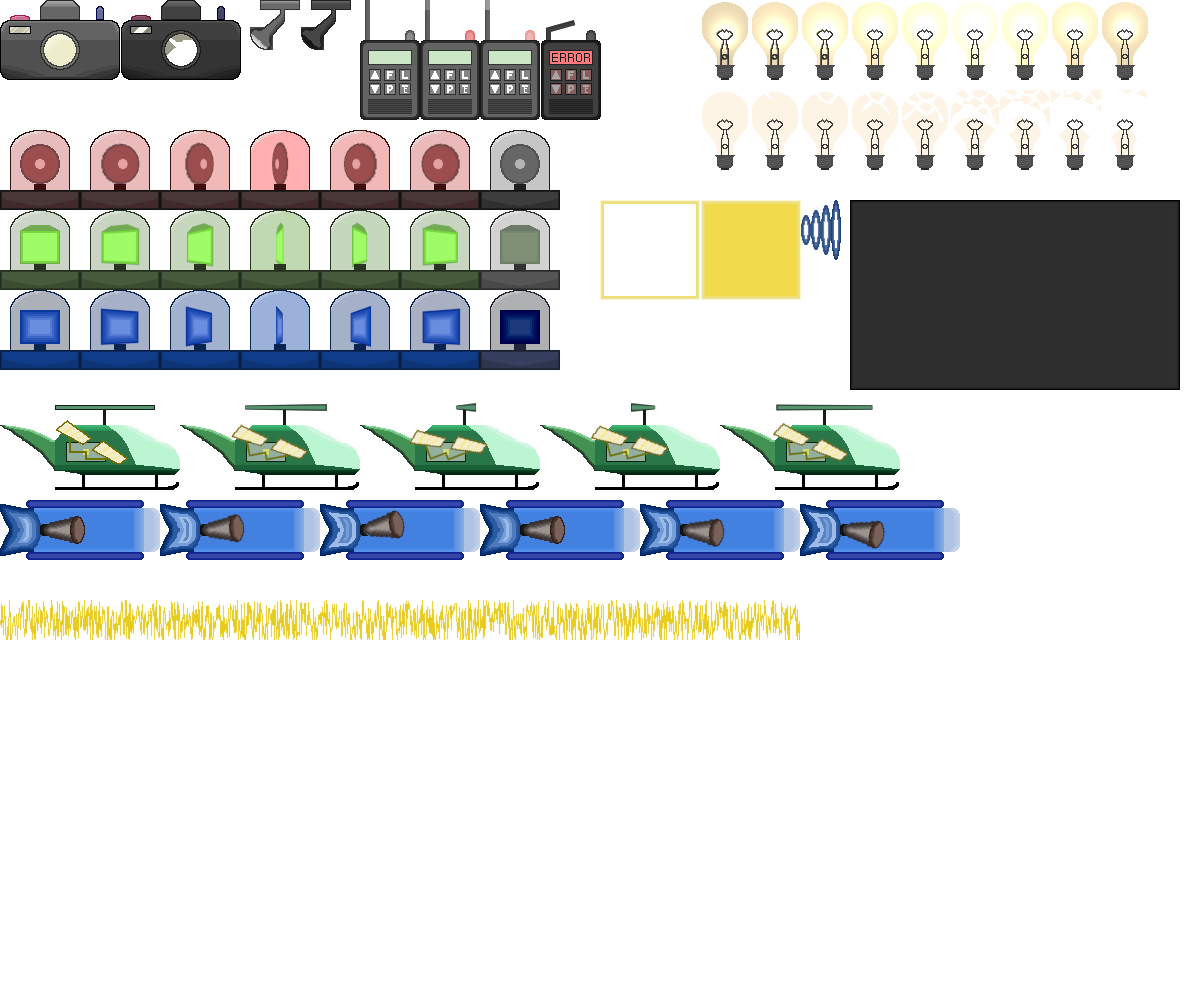
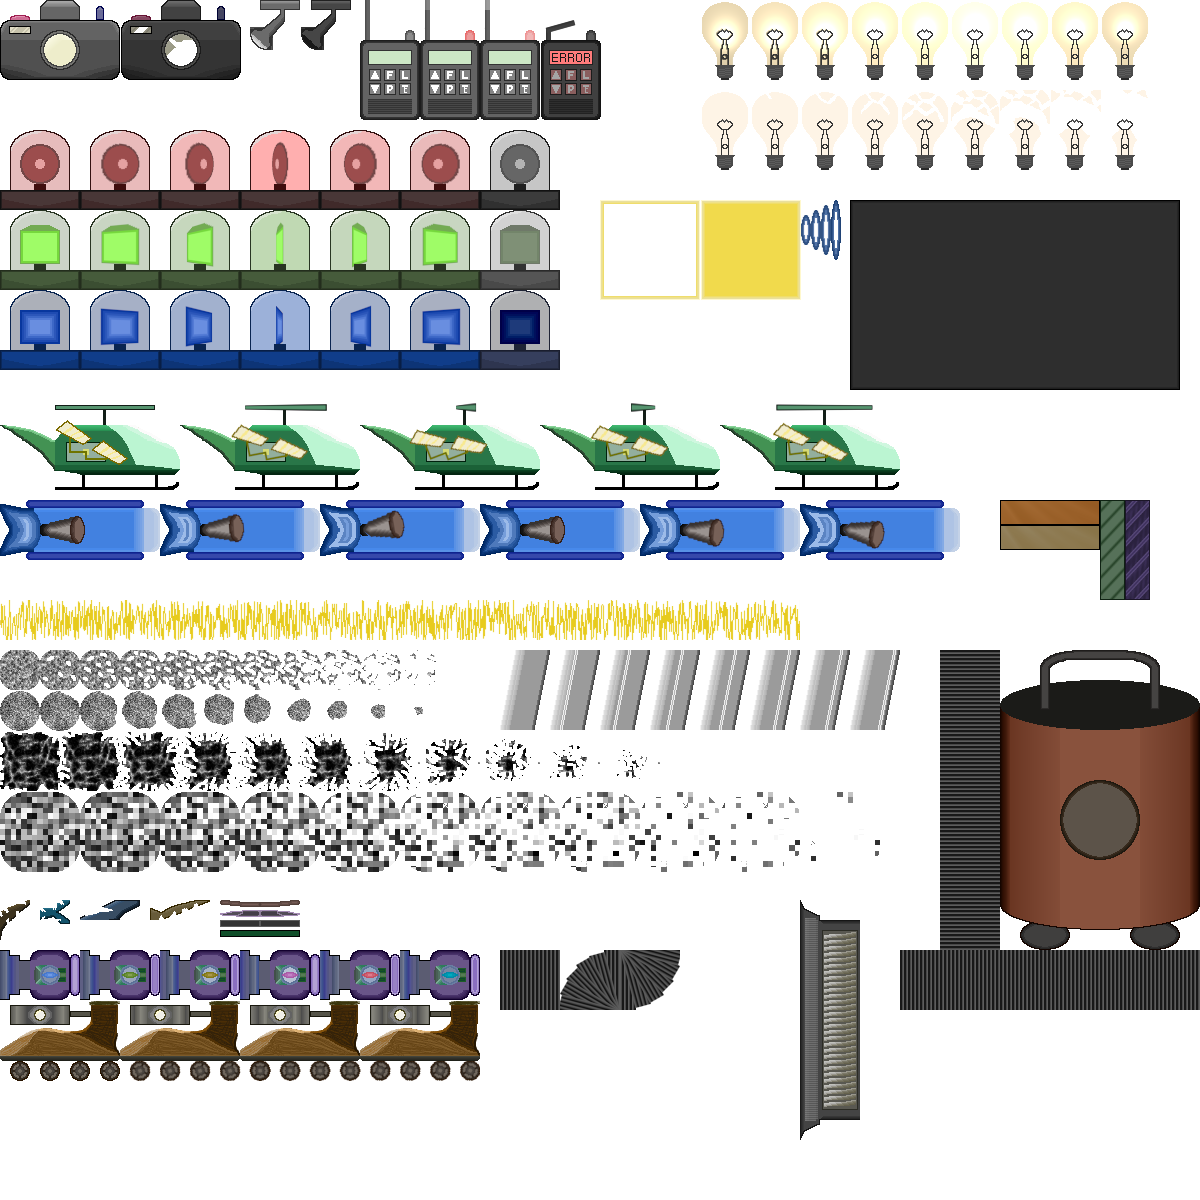
2024/04/16 v0.47.5 - round 3-8 ~ 3-9 image add

diff --git a/js/imageSrc.js b/js/imageSrc.js
@@ -194,6 +194,19 @@ export class imageSrc {
     round3_7_stair: './image/round/round3_7_stair.png',
     round3_7_stairIn: './image/round/round3_7_stairIn.png',
     round3_7_stairOut: './image/round/round3_7_stairOut.png',
+    round3_8_level1: './image/round/round3_8_level1.png',
+    round3_8_level2: './image/round/round3_8_level2.png',
+    round3_8_level3: './image/round/round3_8_level3.png',
+    round3_8_level4: './image/round/round3_8_level4.png',
+    round3_8_finishArea: './image/round/round3_8_finishArea.png',
+    round3_8_finishStart: './image/round/round3_8_finishStart.png',
+    round3_9_level1: './image/round/round3_9_level1.png',
+    round3_9_level2: './image/round/round3_9_level2.png',
+    round3_9_level3: './image/round/round3_9_level3.png',
+    round3_9_level4: './image/round/round3_9_level4.png',
+    round3_9_layerBackground: './image/round/round3_9_layerBackground.png',
+    round3_9_finishArea: './image/round/round3_9_finishArea.png',
+    round3_9_finishStart: './image/round/round3_9_finishStart.png',
   }
 
   // 경고: canvas에 svg 이미지를 사용하지 마세요. 성능이 매우 안좋습니다.
@@ -676,6 +689,7 @@ export class imageDataInfo {
   }
 
   static towerEnemyGroup5 = {
+    // round 3-6
     camera: new ImageDataObject(0, 0, 120, 80),
     enemyDieCamera: new ImageDataObject(121, 0, 120, 80),
     cctv: new ImageDataObject(250, 0, 50, 50),
@@ -694,6 +708,34 @@ export class imageDataInfo {
     hellnet: new ImageDataObject(0, 400, 180, 90, 5),
     helltell: new ImageDataObject(0, 500, 160, 60, 6),
     gabudanComputer: new ImageDataObject(850, 200, 330, 190, 1),
+
+    // round 3-8
+    dust1: new ImageDataObject(0, 650, 40, 40),
+    enemyDieDust1: new ImageDataObject(0, 650, 40, 40, 11),
+    dust2: new ImageDataObject(0, 691, 40, 40),
+    enemyDieDust2: new ImageDataObject(0, 691, 40, 40, 11),
+    dust3: new ImageDataObject(0, 732, 60, 60),
+    enemyDieDust3: new ImageDataObject(0, 732, 60, 60, 11),
+    dust4: new ImageDataObject(0, 793, 80, 80),
+    enemyDieDust4: new ImageDataObject(0, 793, 80, 80, 11),
+    brokenWing1: new ImageDataObject(0, 900, 30, 40),
+    brokenWing2: new ImageDataObject(40, 900, 300, 24),
+    brokenWing3: new ImageDataObject(80, 900, 60, 20),
+    brokenWing4: new ImageDataObject(150, 900, 60, 20),
+    brokenRotor1: new ImageDataObject(220, 900, 80, 7),
+    brokenRotor2: new ImageDataObject(220, 910, 80, 7),
+    brokenRotor3: new ImageDataObject(220, 920, 80, 7),
+    brokenRotor4: new ImageDataObject(220, 930, 80, 7),
+    sujipgi: new ImageDataObject(0, 950, 80, 50, 6),
+    roller: new ImageDataObject(0, 1001, 120, 80, 4),
+    cutternal: new ImageDataObject(500, 650, 50, 80, 8),
+    vacuumCleaner: new ImageDataObject(1000, 650, 200, 300),
+    vacuumCleanerHoseHorizontal: new ImageDataObject(940, 650, 60, 300),
+    vacuumCleanerHoseVertical: new ImageDataObject(900, 950, 300, 60),
+    vacuumCleanerHoseRect: new ImageDataObject(500, 950, 60, 60),
+    vacuumCleanerHoseLeftDownCornor: new ImageDataObject(560, 950, 60, 60),
+    vacuumCleanerHoseDownRightCornor: new ImageDataObject(620, 950, 60, 60),
+    vacuumCleanerInhaler: new ImageDataObject(800, 900, 60, 240),
 
     cameraAttackArea: new ImageDataObject(600, 200, 100, 100),
     cameraAttackAreaShot: new ImageDataObject(701, 200, 100, 100),
